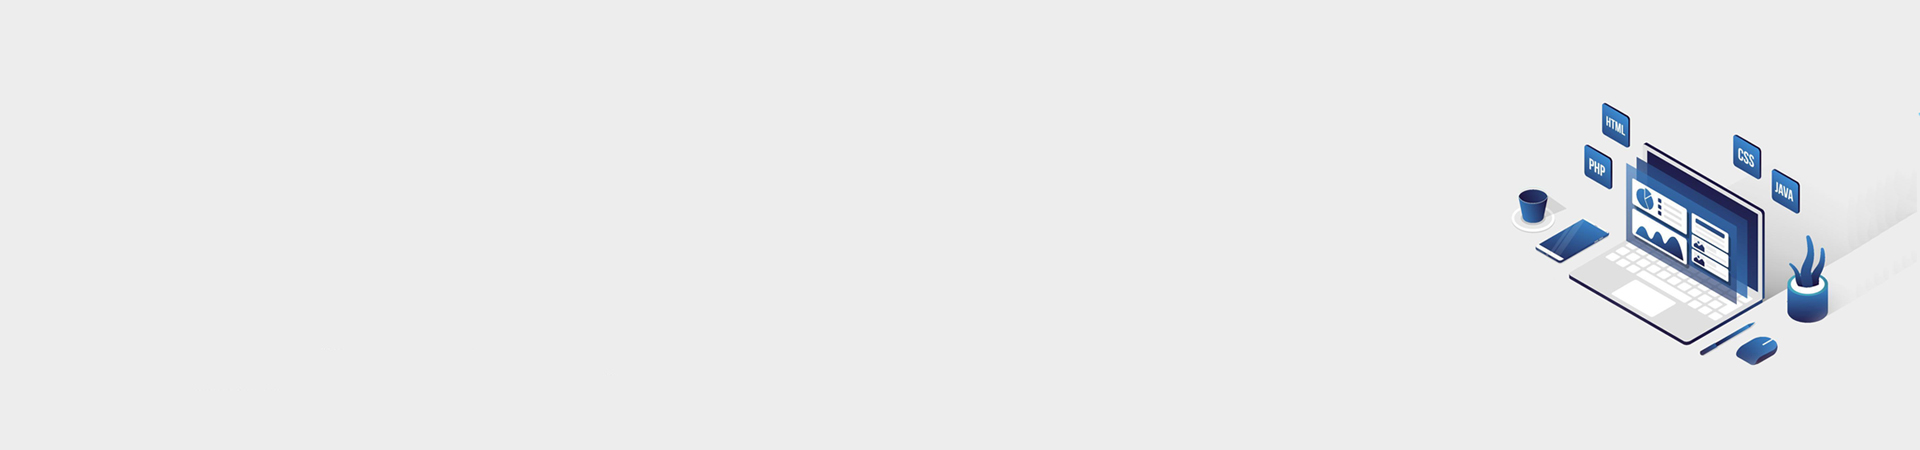
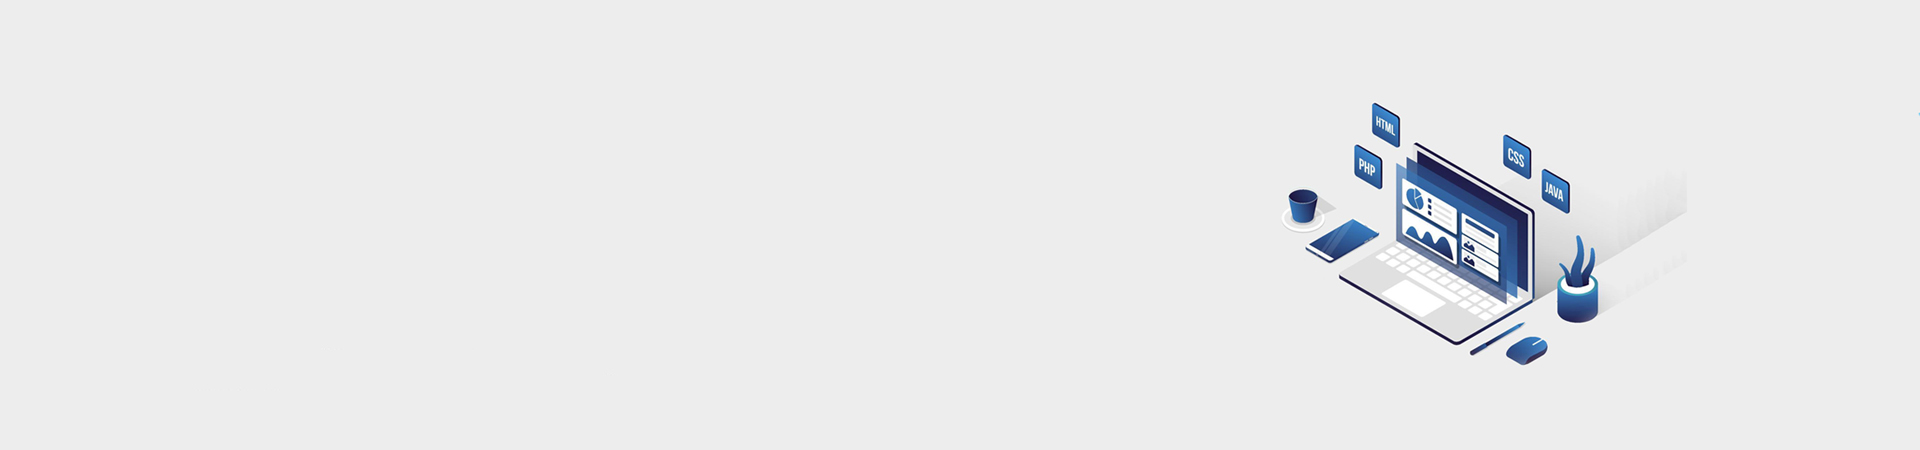
agregamos estilos y cambiamos el bg

Changed region(s): [[0.6562, 0.2178, 0.9688, 0.8089], [0.6562, 0.4044, 0.6875, 0.4978], [0.6875, 0.6222, 0.7188, 0.6533]]

diff --git a/css/style.css b/css/style.css
@@ -63,9 +63,27 @@ h1,h2,h3{
    color: var(--blanco);
    padding: 1rem 3rem;
    margin: 1rem;
+   
+   /* usamos la sig linea para quitar las decoraciones al link */
    text-decoration: none;
+   
+   /* transformamos el contenido de boton a mayusculas con uper */
    text-transform: uppercase;
    font-size: 2rem;
+
+   /* redondeamos las esquinas del boton */
+   border-radius: .5rem;
+
+   width: 80%;
+   text-align: center;
+   align-items: center;
+}
+
+@media (min-width: 768px) { 
+    .boton {
+      width: auto;
+    }
+   
 }
 
 .nav-bg{ 
@@ -84,6 +102,7 @@ h1,h2,h3{
 @media (min-width: 768px) { 
    .navegacion-principal{
       flex-direction: row;}
+      
 }
 /* acá usamos un selector especifico */
 .navegacion-principal a{
@@ -102,13 +121,14 @@ h1,h2,h3{
 }
 
 .hero{
-   background-image: url(../img/hero.jpg);
+   background-image: url(/img/hero.jpg);
    background-repeat: no-repeat;
    background-size: cover;
    background-position: center;
    height: 450px;
    position: relative;
 }
+
 
 .contenido-hero {
    position: absolute;
@@ -131,6 +151,9 @@ h1,h2,h3{
    text-align: center;
    align-items: center;
 }
+
+
+
 .ubicacion{
       display: flex;
       justify-content: center;
